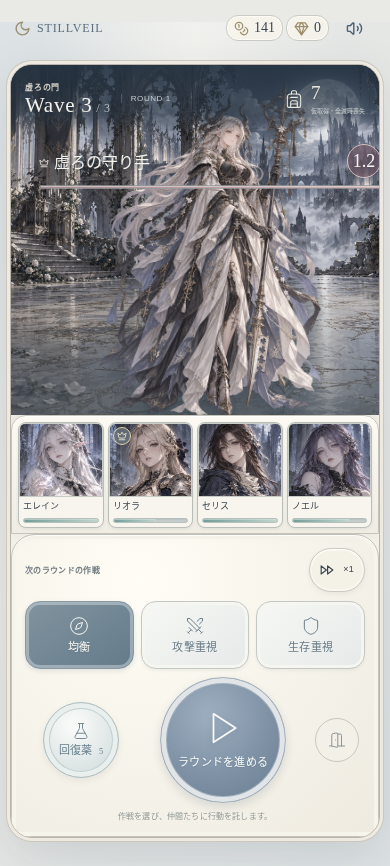
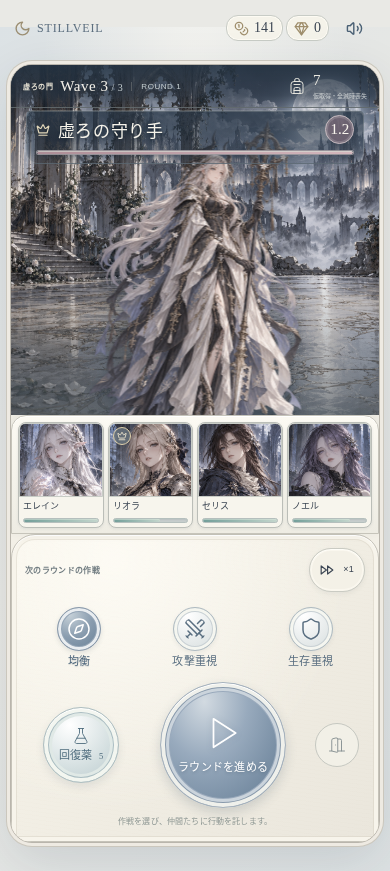
feat: refine reference artwork and satin fantasy interface

diff --git a/src/ui/battle.css b/src/ui/battle.css
@@ -15,19 +15,22 @@
   position: absolute;
   z-index: 5;
   inset: 0 0 auto;
-  min-height: 70px;
-  padding: 14px 20px;
+  min-height: 44px;
+  padding: 8px 17px;
   margin: 0;
   gap: 14px;
   color: #edece8;
-  background: linear-gradient(180deg,#263443e6,#2634438a 75%,transparent);
+  background: linear-gradient(180deg,#263443e0,#26344391 72%,#26344326);
+  border-bottom: 1px solid #d7d4c14d;
 }
-.battle-layout .battle-topline .eyebrow { color: #d0cec4; font-size: 9px; margin-bottom: 3px; letter-spacing: .1em; }
-.battle-layout .battle-topline h2 { font-size: 23px; line-height: 1; color: #f3f0e9; }
-.battle-layout .battle-topline h2 small { color: #b9c3c9; font-size: 12px; }
+.battle-layout .battle-topline .eyebrow { color: #e2ded0; font-size: 8px; margin-bottom: 0; letter-spacing: .08em; }
+.battle-layout .battle-topline > div:first-child { display: flex; align-items: center; gap: 11px; }
+.battle-layout .battle-topline h2 { font-size: 16px; line-height: 1.2; color: #f3f0e9; white-space: nowrap; }
+.battle-layout .battle-topline h2 small { color: #c5ced1; font-size: 10px; }
 .battle-layout .round-label { color: #c4cdd0; border-color: #d9d7cc3b; font-size: 9px; padding-left: 14px; letter-spacing: .07em; }
 .battle-layout .bag-counter { color: #e8e7df; gap: 2px 7px; }
-.battle-layout .bag-counter strong { font-size: 19px; }
+.battle-layout .bag-counter strong { font-size: 15px; }
+.battle-layout .bag-counter > svg { width: 18px; height: 18px; }
 .battle-layout .bag-counter small { color: #c7ccce; font-size: 7px; }
 .battle-layout .battle-scene { min-height: 0; height: 424px; border: 0; border-radius: 0; overflow: hidden; background: #465361; }
 .battle-layout .scene-background { opacity: 1; object-position: 50% 43%; filter: saturate(.7); }
@@ -80,20 +83,23 @@
 .battle-layout .party-strip .hp-bar > span { background: linear-gradient(90deg,#739e99,#c3d5cc); }
 .battle-layout .party-hp { display: none; }
 .battle-layout .party-strip--selecting .character-portrait.button:not(:disabled) { box-shadow: 0 0 0 2px #9bbab2,0 0 15px #c1d9d3; }
-.battle-layout .command-pad { position: relative; padding: 17px 19px 16px; margin: 0; border: 1px solid #c6c3b9; border-radius: 24px 24px 0 0; background: radial-gradient(ellipse at 35% 15%,#fffdf5,#eeeae0); box-shadow: inset 0 1px 0 #ffffff,inset 0 0 0 4px #f7f4eb; }
+.battle-layout .command-pad { position: relative; padding: 17px 19px 16px; margin: 0; border: 1px solid #c6c3b9; border-radius: 24px 24px 0 0; background: radial-gradient(ellipse at 28% 8%,#fffdf7cc,transparent 63%),repeating-linear-gradient(8deg,#aa9e7e03 0 1px,transparent 1px 4px),linear-gradient(135deg,#f8f5eb,#eae6dc); box-shadow: inset 0 1px 0 #ffffff,inset 0 0 0 4px #f7f4eb,inset 0 0 0 5px #d7d1c480; }
 .battle-layout .command-heading { margin-bottom: 13px; min-height: 28px; gap: 6px; }
 .battle-layout .command-heading > .eyebrow { font-size: 9px; letter-spacing: .04em; color: #727d82; }
 .battle-layout .command-heading .button { padding: 6px 10px; min-height: 44px; border-radius: 50px; background: #f4f1e7; font-size: 9px; border-color: #cacbc3; }
 .battle-layout .strategy-options { display: grid; grid-template-columns: repeat(3,minmax(0,1fr)); gap: 9px; margin-bottom: 10px; }
-.battle-layout .strategy-options .button { min-height: 77px; padding: 10px 5px 8px; border-radius: 18px; display: flex; flex-direction: column; gap: 4px; border: 1px solid #c3c8c7; background: linear-gradient(140deg,#f7f8f5,#e5e9e8); color: #697b87; box-shadow: inset 0 0 0 3px #f6f6f0,0 2px 3px #3b4a5210; }
-.battle-layout .strategy-options .button.is-selected { background: linear-gradient(145deg,#81939e,#647b8b); color: #faf9f3; border-color: #899aa5; box-shadow: inset 0 0 0 3px #d4dce177,0 2px 5px #3a4d5c20; }
+.battle-layout .strategy-options .button { min-height: 77px; padding: 5px 4px 4px; border-radius: 18px; display: flex; flex-direction: column; gap: 3px; border: 1px solid transparent; background: transparent; color: #596e80; box-shadow: none; }
+.battle-layout .strategy-options .button:hover:not(:disabled) { background: transparent; border-color: transparent; box-shadow: none; }
+.battle-layout .strategy-options .button.is-selected { background: transparent; color: #4c657b; border-color: transparent; box-shadow: none; }
+.battle-layout .strategy-options .button > svg { box-sizing: border-box; width: 48px; height: 48px; padding: 10px; stroke-width: 1.5; border: 1px solid #aebac0; border-radius: 50%; background: radial-gradient(circle at 32% 18%,#ffffff,#e2e7e7 70%,#c5d0d4); box-shadow: inset 0 0 0 3px #f5f6f0,inset 0 0 0 4px #c8d0d4,0 2px 4px #3a4d5c14; filter: none; }
+.battle-layout .strategy-options .button.is-selected > svg { color: #ffffff; background: radial-gradient(circle at 28% 16%,#c5d0d8,#8a9daf 48%,#647d94); border-color: #8999aa; box-shadow: inset 0 0 0 3px #e9edf0,inset 0 0 0 4px #93a4b5,0 2px 5px #3a4d5c24; filter: none; }
 .battle-layout .strategy-options .button > span { gap: 0; font-family: var(--font-display); font-size: 12px; line-height: 1.4; }
 .battle-layout .strategy-options .button small { display: none; }
 .battle-layout .command-actions { display: grid; grid-template-columns: 1fr 1.35fr .55fr; align-items: center; justify-items: center; gap: 8px; }
-.battle-layout .command-actions .battle-item-control { width: 86px; height: 86px; min-height: 86px; padding: 10px; border-radius: 50%; display: flex; flex-direction: column; gap: 4px; border: 1px solid #aebec0; background: radial-gradient(circle at 40% 30%,#fbfcfa,#cbd7d8); box-shadow: inset 0 0 0 5px #e9efec,inset 0 0 0 6px #c0ced0,0 3px 7px #41556217; color: #667f8b; }
+.battle-layout .command-actions .battle-item-control { width: 86px; height: 86px; min-height: 86px; padding: 10px; border-radius: 50%; display: flex; flex-direction: column; gap: 4px; border: 1px solid #aebec0; background: radial-gradient(circle at 35% 23%,#ffffff,#d4dfe0 58%,#b5c6ca); box-shadow: inset 0 1px 0 #ffffff,inset 0 0 0 4px #f3f6f0,inset 0 0 0 5px #aabdc2,inset 0 0 0 8px #e0e9e6,0 4px 8px #4155621c; color: #4f6d7e; }
 .battle-layout .battle-item-control > span { font-size: 11px; line-height: 1.2; }
 .battle-layout .battle-item-control small { margin-left: 3px; font-family: var(--font-display); }
-.battle-layout .command-actions .battle-advance-control { width: 142px; height: 142px; min-height: 142px; padding: 20px 13px; border-radius: 50%; display: flex; flex-direction: column; gap: 8px; border: 1px solid #a6b2bd; background: radial-gradient(circle at 39% 30%,#9daebf,#788b9f 65%,#667c91); color: #f9faf6; box-shadow: inset 0 0 0 5px #e1e5e7,inset 0 0 0 6px #a4b1bd,0 4px 10px #3a4e5f28; }
+.battle-layout .command-actions .battle-advance-control { width: 142px; height: 142px; min-height: 142px; padding: 20px 13px; border-radius: 50%; display: flex; flex-direction: column; gap: 8px; border: 1px solid #a6b2bd; background: radial-gradient(ellipse at 35% 15%,#d2dae1,#98aabd 38%,#778da3 72%,#657b92); color: #ffffff; box-shadow: inset 0 1px 0 #ffffff,inset 0 0 0 4px #eff0eb,inset 0 0 0 5px #899aac,inset 0 0 0 8px #cbd4dc,inset 0 0 0 9px #9aaabc,0 5px 12px #3a4e5f30; text-shadow: 0 1px 3px #3f566b70; }
 .battle-layout .battle-advance-control > svg { width: 38px; height: 38px; filter: drop-shadow(0 1px 3px #31475e2b); }
 .battle-layout .battle-advance-control > span { max-width: 104px; font-family: var(--font-display); font-size: 12px; line-height: 1.4; text-align: center; }
 .battle-layout .command-actions .battle-retreat-control { width: 44px; height: 44px; min-height: 44px; padding: 9px; border-radius: 50%; border: 1px solid #c6c8c1; background: #f2f0e7; color: #8a9394; }
@@ -101,9 +107,10 @@
 @media (max-width: 760px) {
   .battle-layout { max-width: 500px; border-radius: 22px; }
   .battle-layout .battle-scene { height: 350px; }
-  .battle-layout .battle-topline { min-height: 67px; padding: 12px 14px; gap: 10px; }
-  .battle-layout .battle-topline .eyebrow { font-size: 8px; }
-  .battle-layout .battle-topline h2 { font-size: 21px; }
+  .battle-layout .battle-topline { min-height: 43px; padding: 7px 12px; gap: 8px; }
+  .battle-layout .battle-topline .eyebrow { font-size: 7px; }
+  .battle-layout .battle-topline h2 { font-size: 15px; }
+  .battle-layout .battle-topline > div:first-child { gap: 7px; }
   .battle-layout .round-label { font-size: 8px; padding-left: 9px; }
   .battle-layout .bag-counter small { font-size: 6px; }
   .battle-layout .enemy-line { inset: 72px 9px 8px; gap: 5px 0; }
@@ -121,7 +128,8 @@
   .battle-layout .command-heading { margin-bottom: 9px; }
   .battle-layout .command-heading > .eyebrow { font-size: 8px; }
   .battle-layout .strategy-options { gap: 7px; margin-bottom: 8px; }
-  .battle-layout .strategy-options .button { min-height: 68px; padding: 8px 4px 6px; border-radius: 15px; }
+  .battle-layout .strategy-options .button { min-height: 72px; padding: 5px 2px 4px; border-radius: 15px; }
+  .battle-layout .strategy-options .button > svg { width: 44px; height: 44px; padding: 9px; }
   .battle-layout .strategy-options .button > span { font-size: 11px; }
   .battle-layout .command-actions { grid-template-columns: 1fr 1.45fr .5fr; gap: 4px; }
   .battle-layout .command-actions .battle-item-control { width: 76px; height: 76px; min-height: 76px; }

diff --git a/src/ui/MenuEmblem.tsx b/src/ui/MenuEmblem.tsx
@@ -1,4 +1,5 @@
 import { useId } from 'react';
+import { assetPath } from '../content';
 
 export type MenuEmblemKind = 'party' | 'monster' | 'bag' | 'wish' | 'codex' | 'settings';
 
@@ -6,6 +7,7 @@ export type MenuEmblemKind = 'party' | 'monster' | 'bag' | 'wish' | 'codex' | 's
 export function MenuEmblem({ kind }: { kind: MenuEmblemKind }) {
   const id = useId().replace(/:/g, '');
   const metal = `url(#${id}-metal)`, paper = `url(#${id}-paper)`;
+  if (kind === 'bag' || kind === 'codex') return <img className={`menu-emblem menu-emblem--painted menu-emblem--${kind}`} src={assetPath(`menu-${kind}`)} alt="" aria-hidden="true" draggable={false} />;
   return <svg className={`menu-emblem menu-emblem--${kind}`} viewBox="0 0 120 92" fill="none" aria-hidden="true">
     <defs>
       <linearGradient id={`${id}-metal`} x1="32" y1="14" x2="86" y2="84" gradientUnits="userSpaceOnUse"><stop stopColor="#8d94a4" /><stop offset=".56" stopColor="#697387" /><stop offset="1" stopColor="#a2a8b5" /></linearGradient>
@@ -14,33 +16,23 @@ export function MenuEmblem({ kind }: { kind: MenuEmblemKind }) {
     </defs>
     <ellipse cx="60" cy="53" rx="53" ry="36" fill={`url(#${id}-halo)`} />
     {kind === 'party' && <>
-      <path d="M29 79c-10-2-13-8-10-19 2-9 10-15 13-21-5-10-1-23 10-25 13-2 20 11 15 24-2 5-6 8-7 11 2 10 8 17 12 24-12-3-22 3-33 6Z" fill="#939aa8" opacity=".7" />
-      <path d="M76 77c14 2 20-2 19-12-1-12-11-13-14-23 4-8 3-19-5-22-9-4-18 3-17 13 0 7 5 10 8 13-1 9-7 15-12 23 6 5 14 8 21 8Z" fill="#a8aebb" />
-      <path d="M40 82c-9-3-10-9-7-16 3-8 14-13 18-19-9-11-5-27 5-29 15-3 24 12 18 25-3 6-8 10-8 16 4 5 13 12 18 20-18-4-30 0-44 3Z" fill={metal} />
-      <path d="M57 26c5-5 13-1 15 6l-4 3 4 5-6 3-1 8-10-3c5-6 6-12 2-22Z" fill={paper} />
-      <path d="M51 29c-4 13-1 23-7 35M48 43c3 12-1 20-7 27" stroke="#b6bbc4" strokeWidth="1.3" strokeLinecap="round" />
-      <path d="m47 57 12 8 10-7" stroke="#c6c7cb" strokeWidth="1.1" />
+      <path d="M27 80c9-4 12-11 12-20 0-8-5-12-5-24 0-17 12-28 28-28 18 0 29 12 28 28-1 7-4 11-8 16-3 5-4 10-2 16 1 5 5 9 10 13-16 0-28 2-39 4-9 2-18 1-24-5Z" fill={metal} />
+      <path d="M64 17c9-1 17 6 18 15l-2 6 7 7c1 1 0 3-2 3l-6 1-1 8c-1 5-5 7-11 7-3 7 0 12 8 16-11 0-22 2-31 4 2-7 9-10 12-17 2-5 1-10-1-15 7-7 11-19 9-35Z" fill={paper} />
+      <path d="M61 12c-14 7-16 17-12 33 4 17-3 23-11 32M56 16c-13 10-16 19-12 31 5 16-2 25-8 30M66 13c-9 8-9 18-4 27" stroke="#bdc1c7" strokeWidth="1.25" strokeLinecap="round" />
+      <path d="M75 35c2-1 4 0 5 1" stroke="#747e8c" strokeWidth="1" strokeLinecap="round" />
+      <path d="M88 79c9-6 13-15 14-26m-2 9 7-5m-10 14 8-3m-14 10 8-1" stroke="#a5aaa6" strokeWidth="1.15" strokeLinecap="round" />
+      <path d="M101 60c-5-2-7-5-7-8 5 1 8 3 7 8Zm-5 11c-5 0-8-3-9-6 6-1 9 2 9 6Z" fill="#a5aaa6" />
     </>}
     {kind === 'monster' && <>
-      <path d="M81 7c4 9 1 19-8 23 12 0 20-13 14-24-2-3-5-5-8-6l2 7Z" fill="#9ca2b3" />
-      <path d="m31 22 15 14 14-7 17 7 15-16 1 27 10 13-17 1 7 12-21-3-10 13-10-12-21 2 6-13-18-4 15-11-3-23Z" fill={metal} />
-      <path d="m38 34 9 10-7 2-2-12Zm46-2-9 12 8 1 1-13Z" fill={paper} />
-      <path d="m46 51 9 5-7 2-2-7Zm30 0-8 5 7 2 1-7Z" fill="#edece5" />
-      <path d="m55 61 7-4 7 4-7 7-7-7Z" fill="#e0e2e5" />
-      <path d="m59 70 3 3 4-3" stroke="#c4c9d0" strokeWidth="1.3" />
-      <path d="M26 82c-10-7-15-18-15-30M11 57l-5-5m6 13-6-2m11 12-6-1m80 7c10-7 15-17 16-29m-1 7 6-5m-8 14 7-2m-12 12 7-1" stroke="#a3aaa9" strokeWidth="1.4" strokeLinecap="round" />
-      <path d="m20 75-3-8 7 4m73 3 3-8-7 5" fill="#a3aaa9" />
-    </>}
-    {kind === 'bag' && <>
-      <path d="M45 26v-7c0-8 30-8 30 0v7" stroke="#6f7784" strokeWidth="5" />
-      <path d="M31 31c0-6 58-6 58 0l8 42c1 8-70 9-72 1l6-43Z" fill={metal} stroke="#687080" strokeWidth="1.3" />
-      <path d="m31 32-5 22c16 8 46 7 68-2l-5-21c-17 9-40 10-58 1Z" fill={paper} stroke="#9c9b99" strokeWidth="1.2" />
-      <path d="m42 30-1 45m36-46 2 46" stroke="#b7b1a1" strokeWidth="8" />
-      <path d="m42 30-1 45m36-46 2 46" stroke="#e2d8bc" strokeWidth="2" />
-      <rect x="36" y="47" width="11" height="12" rx="2" fill="#7b808a" stroke="#e2d8bc" strokeWidth="1.6" />
-      <rect x="73" y="46" width="11" height="12" rx="2" fill="#7b808a" stroke="#e2d8bc" strokeWidth="1.6" />
-      <path d="M51 61h19v16H51z" fill="#8e98a3" stroke="#c5c8c9" strokeWidth="1.1" />
-      <path d="M31 73c15 5 44 5 59-1" stroke="#ccd0d2" strokeWidth="1" />
+      <path d="M79 8c4 9 0 18-8 21 12 0 19-13 13-23-2-3-4-5-7-6l2 8Z" fill="#9ca3af" />
+      <path d="M34 78c6-7 7-14 6-23-5-2-9-5-11-9 6 0 10-2 13-6-1-8 0-18 4-29 6 6 11 13 13 20 7-3 14-3 20-2 4 7 10 13 17 16l10 3c3 1 4 5 1 7-4 3-11 4-18 5-2 6-5 11-10 14l6 10c-8-2-14-3-21-2l-8 5-7-7-15-2Z" fill={metal} />
+      <path d="M46 20c0 7 0 13 2 17l7-3-9-14Z" fill={paper} />
+      <path d="M60 45c7-6 15-8 21-5l-5 9-16-4Z" fill="#d9dde0" />
+      <path d="m70 44 7-1-2 4-5-3Z" fill="#697485" />
+      <path d="M91 48c3 0 7 1 10 2l-4 4-6-6Z" fill="#e6e5dc" />
+      <path d="M48 58c5 0 10-2 13-5-2 9-7 15-15 19m14-12c2 8 1 14-4 19m14-15c5 5 6 10 4 15" stroke="#bcc3ca" strokeWidth="1.1" strokeLinecap="round" />
+      <path d="M29 83C16 76 10 64 10 49m1 8-6-5m9 16-7-3m13 12-8-2m79 8c12-7 18-19 18-34m-1 9 6-5m-9 15 7-3m-13 12 8-2" stroke="#a1aaa5" strokeWidth="1.25" strokeLinecap="round" />
+      <path d="m17 73-2-8 7 5m75 4 2-8-7 5" fill="#a1aaa5" />
     </>}
     {kind === 'wish' && <>
       <path d="m60 9 23 30-6 28-17 18-17-18-6-28L60 9Z" fill="#a9b9ce" stroke="#75879e" strokeWidth="1.4" />
@@ -52,15 +44,6 @@ export function MenuEmblem({ kind }: { kind: MenuEmblemKind }) {
       <path d="m37 39 19 2 4-32m-4 32 12 0 15-2" stroke="#f5f5ef" strokeWidth="1.2" />
       <path d="m23 29 2 8 7 2-7 2-2 8-2-8-7-2 7-2 2-8Zm72 22 2 6 6 2-6 2-2 6-2-6-6-2 6-2 2-6Z" fill="#a7acb7" />
       <circle cx="33" cy="69" r="2" fill="#b0ac9d" /><circle cx="90" cy="26" r="1.5" fill="#b0ac9d" />
-    </>}
-    {kind === 'codex' && <>
-      <path d="m34 17 49 7-7 57-51-8 9-56Z" fill={metal} stroke="#6f7887" strokeWidth="1.2" />
-      <path d="m39 15 48 7-7 56-48-7 7-56Z" fill={paper} stroke="#9ba1a7" strokeWidth="1.2" />
-      <path d="m40 14 43 6-7 54-43-6 7-54Z" fill="#818c9d" stroke="#c4c4bf" strokeWidth="1.2" />
-      <path d="m46 21 30 4-5 40-30-4 5-40Z" stroke="#c4c3b8" strokeWidth=".8" />
-      <path d="M57 59c-1-10 2-21 11-27m-10 13c-10-5-9-12-9-12 8 0 12 6 9 12Zm2-3c9 0 13-7 13-7-8-2-13 1-13 7Zm-4 10c-9-1-11-8-11-8 8-2 12 2 11 8Z" stroke="#dcd9c8" fill="#dcd9c8" strokeWidth=".8" strokeLinecap="round" />
-      <path d="m32 72 47 7m-45-4 43 7" stroke="#d2cdbc" strokeWidth="1.2" />
-      <path d="m17 64 4 6-6 1m77-13-3 8 7-3" fill="#a6ada9" />
     </>}
     {kind === 'settings' && <>
       <path d="m49 14 4 9 10-1 3-9 12 4-1 10 8 6 9-3 7 11-7 7 2 10 9 4-3 13-11-1-6 8 1 8-14 3-5-8-10-1-6 7-11-6 2-10-6-7-10 1-4-12 8-6 1-10-8-6 6-11 10 3 8-5 1-10 13-3Z" fill={metal} transform="translate(-2 -2) scale(.88) translate(10 7)" />

diff --git a/src/content/index.ts b/src/content/index.ts
@@ -37,12 +37,12 @@ const characters: CharacterDef[] = [
 
 const characterAssets: AssetDef[] = characters.flatMap(char => {
   const wolf = char.id === 'pale-wolf';
-  const landscape = wolf || char.id === 'stone-drake';
-  const generated = char.origin.includes('initial') || landscape || char.id === 'hollow-keeper';
+  const landscape = wolf || char.id === 'stone-drake' || char.id === 'moon-moth';
+  const generated = char.origin.includes('initial') || char.origin.includes('recruit');
   const common = { path: `art/${char.id}.${generated ? 'png' : 'svg'}`, width: landscape ? 1536 : generated ? 1024 : 640, height: landscape ? 1024 : generated ? 1536 : 900, rights: generated ? 'Original AI-generated illustration for this project.' : 'Original SVG artwork created for this project. No third-party source.' };
   return [
     { ...common, id: char.artId, kind: 'illustration', anchor: landscape ? '50% 50%' : '50% 42%' },
-    { ...common, id: char.portraitId, kind: 'portrait', anchor: landscape ? '25% 30%' : generated ? '50% 8%' : '50% 28%', portraitZoom: landscape ? 1.4 : char.id === 'hollow-keeper' ? 1.7 : generated ? 1.9 : 1.25, portraitOrigin: landscape ? '25% 30%' : generated ? '50% 18%' : '50% 22%' },
+    { ...common, id: char.portraitId, kind: 'portrait', anchor: landscape ? '25% 30%' : generated ? '50% 8%' : '50% 28%', portraitZoom: char.id === 'moon-moth' ? 1.1 : landscape ? 1.4 : char.origin.includes('initial') ? 1.9 : generated ? 1.7 : 1.25, portraitOrigin: char.id === 'moon-moth' ? '50% 40%' : landscape ? '25% 30%' : generated ? '50% 18%' : '50% 22%' },
   ];
 });
 const stages = [
@@ -63,7 +63,9 @@ const dungeons: DungeonDef[] = stages.map(([id, name, subtitle, main, second], i
   [{ characterId: main === 'veil-priestess' ? second : main, boss: true }],
 ] }));
 
-export const content: Content = { appVersion: '0.1.0', contentVersion: 'initial-r1', rulesVersion: '1', schemaVersion: 1, characters, skills, species: [ { id: 'pilgrim', name: '巡礼' }, { id: 'mist', name: '白霧' }, { id: 'stone', name: '石燐' }, { id: 'hollow', name: '虚ろ' }, { id: 'moon', name: '月翅' }, { id: 'veil', name: '白帳' }, { id: 'thorn', name: '荊冠' } ], assets: [...characterAssets, { id: 'app-icon', path: 'art/icon.svg', kind: 'icon', width: 512, height: 512, anchor: '50% 50%', rights: 'Original SVG artwork created for this project.' }, { id: 'apple-touch-icon', path: 'apple-touch-icon.png', kind: 'icon', width: 180, height: 180, anchor: '50% 50%', rights: 'Rasterization of original project SVG artwork.' }, { id: 'key-art', path: 'art/key-art.png', kind: 'background', width: 1536, height: 1024, anchor: '70% 50%', rights: 'Original AI-generated artwork for this project.' }, { id: 'cathedral', path: 'art/cathedral.png', kind: 'background', width: 1536, height: 1024, anchor: '50% 45%', rights: 'Original AI-generated background created for this project.' }, ...(['common', 'rare', 'epic'] as const).map(rarity => ({ id: `material-${rarity}`, path: `art/material-${rarity}.svg`, kind: 'icon' as const, width: 128, height: 128, anchor: '50% 50%', rights: 'Original SVG artwork created for this project.' }))], dungeons };
+const menuAssets: AssetDef[] = [{ id: 'menu-bag', path: 'art/menu-bag.png', kind: 'icon', width: 1254, height: 1254, anchor: '50% 50%', rights: 'Original AI-generated artwork for this project.' }, { id: 'menu-codex', path: 'art/menu-codex.png', kind: 'icon', width: 1254, height: 1254, anchor: '50% 50%', rights: 'Original AI-generated artwork for this project.' }, { id: 'menu-hero', path: 'art/menu-hero.png', kind: 'background', width: 1254, height: 1254, anchor: '50% 50%', rights: 'Original AI-generated artwork for this project.' }];
+
+export const content: Content = { appVersion: '0.1.0', contentVersion: 'initial-r1', rulesVersion: '1', schemaVersion: 1, characters, skills, species: [ { id: 'pilgrim', name: '巡礼' }, { id: 'mist', name: '白霧' }, { id: 'stone', name: '石燐' }, { id: 'hollow', name: '虚ろ' }, { id: 'moon', name: '月翅' }, { id: 'veil', name: '白帳' }, { id: 'thorn', name: '荊冠' } ], assets: [...characterAssets, ...menuAssets, { id: 'app-icon', path: 'art/icon.svg', kind: 'icon', width: 512, height: 512, anchor: '50% 50%', rights: 'Original SVG artwork created for this project.' }, { id: 'apple-touch-icon', path: 'apple-touch-icon.png', kind: 'icon', width: 180, height: 180, anchor: '50% 50%', rights: 'Rasterization of original project SVG artwork.' }, { id: 'key-art', path: 'art/key-art.png', kind: 'background', width: 1536, height: 1024, anchor: '70% 50%', rights: 'Original AI-generated artwork for this project.' }, { id: 'cathedral', path: 'art/cathedral.png', kind: 'background', width: 1536, height: 1024, anchor: '50% 45%', rights: 'Original AI-generated background created for this project.' }, ...(['common', 'rare', 'epic'] as const).map(rarity => ({ id: `material-${rarity}`, path: `art/material-${rarity}.svg`, kind: 'icon' as const, width: 128, height: 128, anchor: '50% 50%', rights: 'Original SVG artwork created for this project.' }))], dungeons };
 
 export function characterById(id: string): CharacterDef { const found = content.characters.find(char => char.id === id); if (!found) throw new Error(`未知のキャラクター: ${id}`); return found; }
 export function assetPath(id: string): string { const asset = content.assets.find(item => item.id === id); if (!asset) throw new Error(`未知のアセット: ${id}`); const base = typeof import.meta.env === 'object' ? import.meta.env.BASE_URL : '/'; return `${base.replace(/\/$/, '')}/${asset.path.replace(/^\//, '')}`; }

diff --git a/src/ui/enemy-carousel.css b/src/ui/enemy-carousel.css
@@ -1,7 +1,7 @@
 /* One foreground illustration, with the other combatants waiting in depth. */
 .enemy-carousel {
   position: absolute;
-  inset: 72px 0 0;
+  inset: 44px 0 0;
   z-index: 1;
   overflow: hidden;
   touch-action: pan-y;
@@ -10,14 +10,14 @@
   outline: none;
 }
 .enemy-carousel:focus-visible { outline: 2px solid #d4d9cd; outline-offset: -5px; border-radius: 14px; }
-.enemy-carousel-status { position: absolute; top: 4px; left: 7%; width: 86%; z-index: 25; pointer-events: none; padding: 4px 7px 7px; }
+.enemy-carousel-status { position: absolute; top: 3px; left: 5%; width: 90%; z-index: 25; pointer-events: none; padding: 5px 10px 9px; border: 1px solid #d9ddd93b; border-radius: 6px 6px 12px 12px; background: linear-gradient(180deg,#293848c2,#29384872 75%,#29384824); box-shadow: inset 0 1px 0 #f4f2e62b; }
 .enemy-carousel-name { display: flex; align-items: center; gap: 8px; margin-bottom: 6px; color: #f5f2e9; text-shadow: 0 1px 5px #152332, 0 1px 10px #152332a0; }
-.enemy-carousel-name > strong { font-family: var(--font-display); font-size: 19px; font-weight: 400; letter-spacing: .035em; }
+.enemy-carousel-name > strong { font-family: var(--font-display); font-size: 18px; font-weight: 400; letter-spacing: .035em; }
 .enemy-carousel-name > svg { color: #e2d7b9; }
-.enemy-carousel-constant { display: grid; place-items: center; width: 35px; height: 35px; margin-left: auto; border: 1px solid #c8bdc2; border-radius: 50%; background: #756675d6; color: #f8f4ed; font-family: var(--font-display); font-size: 18px; text-shadow: none; box-shadow: inset 0 0 0 2px #e6e0db2e,0 2px 7px #27323d30; }
+.enemy-carousel-constant { display: grid; place-items: center; width: 32px; height: 32px; margin-left: auto; border: 1px solid #c8bdc2; border-radius: 50%; background: #756675d6; color: #f8f4ed; font-family: var(--font-display); font-size: 18px; text-shadow: none; box-shadow: inset 0 0 0 2px #e6e0db2e,0 2px 7px #27323d30; }
 .enemy-carousel-status .hp-bar { height: 5px; background: #263344b8; border: 1px solid #d4c7c89c; box-shadow: 0 1px 4px #23324436; }
 .enemy-carousel-status .hp-bar > span { background: linear-gradient(90deg,#ac8d96,#d4b7bd); }
-.enemy-orbit { position: absolute; inset: 0 0 12px; perspective: 800px; pointer-events: none; }
+.enemy-orbit { position: absolute; inset: 44px 0 12px; perspective: 800px; pointer-events: none; }
 .enemy-orbit-slot {
   position: absolute;
   left: 50%;
@@ -32,8 +32,10 @@
   pointer-events: none;
 }
 .enemy-orbit-actor { position: absolute; inset: 0; }
-.enemy-orbit-art { position: absolute; left: -10%; bottom: -3px; width: 120%; height: calc(100% + 30px); max-width: none; object-fit: contain; object-position: center bottom; filter: drop-shadow(0 8px 8px #15263866); -webkit-user-drag: none; }
-.enemy-carousel--multiple .enemy-orbit { bottom: 23px; }
+.enemy-orbit-art { position: absolute; left: -10%; bottom: -3px; width: 120%; height: calc(100% + 12px); max-width: none; object-fit: contain; object-position: center bottom; filter: drop-shadow(0 8px 8px #15263866); -webkit-user-drag: none; }
+/* Taller portrait artwork can extend below the frame like the reference; landscape creatures keep their full silhouette. */
+.enemy-carousel:not(.enemy-carousel--multiple) .enemy-orbit-art--portrait { height: calc(100% + 78px); bottom: -44px; }
+.enemy-carousel--multiple .enemy-orbit { top: 44px; bottom: 23px; }
 .enemy-carousel--multiple .enemy-orbit-art { bottom: 0; height: 100%; }
 .enemy-carousel-controls { position: absolute; z-index: 30; inset: auto 16px 6px; display: flex; align-items: center; justify-content: space-between; pointer-events: none; }
 .enemy-carousel-controls .enemy-carousel-arrow { pointer-events: auto; width: 44px; height: 44px; min-height: 44px; padding: 10px; border-radius: 50%; color: #ecf0eb; background: #33475991; border: 1px solid #d4d9d080; box-shadow: inset 0 0 0 2px #ecede625,0 2px 8px #22313e2b; backdrop-filter: blur(5px); }
@@ -43,10 +45,10 @@
 .enemy-carousel-position span { color: #e0e5df; font-size: 8px; }
 .enemy-carousel--reduced .enemy-orbit-slot { will-change: auto; }
 @media (max-width: 760px) {
-  .enemy-carousel { inset: 68px 0 0; }
-  .enemy-carousel-status { top: 3px; left: 5%; width: 90%; padding-inline: 5px; }
+  .enemy-carousel { inset: 43px 0 0; }
+  .enemy-carousel-status { top: 2px; left: 4%; width: 92%; padding: 4px 9px 8px; }
   .enemy-carousel-name > strong { font-size: 17px; }
-  .enemy-carousel-constant { width: 32px; height: 32px; font-size: 16px; }
+  .enemy-carousel-constant { width: 29px; height: 29px; font-size: 15px; }
   .enemy-orbit-slot { width: 72%; }
   .enemy-carousel-controls { inset-inline: 11px; bottom: 5px; }
   .enemy-carousel-position { padding-inline: 8px; gap: 5px; }

diff --git a/src/ui/home.css b/src/ui/home.css
@@ -6,9 +6,9 @@
   margin: 0 auto;
   padding: 0 11px 12px;
   overflow: hidden;
-  border: 1px solid #b7b8b6;
+  border: 1px solid #b7b2a8;
   border-radius: 28px;
-  background: linear-gradient(135deg, #f1eee6, #e5e3df 52%, #eeeae2);
+  background: radial-gradient(ellipse at 18% 6%, #fffdf5a8, transparent 58%), repeating-linear-gradient(8deg, #85827b04 0, #85827b04 1px, transparent 1px, transparent 4px), linear-gradient(135deg, #f3efe7, #e9e5de 52%, #f1ede5);
   box-shadow: 0 2px 0 #faf9f1 inset, 0 12px 35px #313a4720, 0 0 0 4px #f6f4ec80;
 }
 .home-hub::after {
@@ -16,7 +16,7 @@
   position: absolute;
   inset: 5px;
   z-index: 5;
-  border: 1px solid #faf8ec66;
+  border: 1px solid #fffdf0a6;
   border-radius: 23px;
   pointer-events: none;
 }
@@ -31,7 +31,7 @@
   width: 100%;
   height: 100%;
   object-fit: cover;
-  object-position: 78% 27%;
+  object-position: 50% 50%;
 }
 .hub-illustration::after {
   content: '';
@@ -128,8 +128,8 @@
   padding: 7px 6px 13px;
   border: 1px solid #fcfbf5;
   border-radius: 23px;
-  background: linear-gradient(135deg, #f5f2ebf5, #eae6dfe8);
-  box-shadow: 0 2px 0 #bbbab650, 0 0 0 1px #bebfbb80 inset, 0 2px 9px #323d4b0d;
+  background: radial-gradient(ellipse at 22% 12%, #fffdf8e6, transparent 70%), repeating-linear-gradient(3deg, #918a7f05 0, #918a7f05 1px, transparent 1px, transparent 4px), linear-gradient(145deg, #f4f0e9f7, #e9e5ddec);
+  box-shadow: 0 2px 0 #b8b3aa55, 0 0 0 1px #bbb8ae8f inset, inset 0 1px 4px #fffdf3b3, 0 3px 9px #323d4b0c;
   color: #4c5260;
   text-align: center;
   overflow: hidden;
@@ -137,6 +137,7 @@
 .home-hub-menu .hub-menu-tile::after { content: ''; position: absolute; inset: 5px; border: 1px solid #ffffff5c; border-radius: 18px; pointer-events: none; }
 .home-hub-menu .hub-menu-tile:hover:not(:disabled) { background: linear-gradient(135deg, #fcfaf4, #eeeae4); border-color: #fcfbf5; box-shadow: 0 3px 0 #b7b7b160, 0 0 0 1px #a6adba inset, 0 7px 17px #36415216; transform: translateY(-1px); }
 .menu-emblem { width: 107px; height: 83px; flex-shrink: 0; filter: drop-shadow(0 2px 1px #49556515); }
+.menu-emblem--painted { object-fit: contain; padding: 1px 7px 2px; transform: scale(1.08); filter: drop-shadow(0 3px 2px #3b46521d); -webkit-user-drag: none; }
 .hub-menu-tile > strong { position: relative; z-index: 1; font-family: var(--font-display); font-size: 16px; font-weight: 500; letter-spacing: .05em; white-space: nowrap; }
 .home-hub .hub-dungeon-entry {
   position: relative;
@@ -169,7 +170,7 @@
   .home-hub { width: 100%; max-width: 430px; border-radius: 22px; padding: 0 8px 10px; box-shadow: 0 2px 0 #faf9f1 inset, 0 7px 25px #313a4718; }
   .home-hub::after { inset: 4px; border-radius: 18px; }
   .hub-illustration { height: 360px; margin-inline: -8px; border-radius: 21px 21px 0 0; }
-  .hub-illustration > img { object-position: 76% 26%; }
+  .hub-illustration > img { object-position: 50% 50%; }
   .hub-profile { top: 9px; left: 8px; right: 8px; gap: 7px; }
   .hub-profile-person { gap: 8px; padding: 5px 11px 5px 5px; }
   .hub-profile-avatar { width: 37px; height: 37px; }

diff --git a/src/ui/EnemyCarousel.tsx b/src/ui/EnemyCarousel.tsx
@@ -1,7 +1,7 @@
 import { useCallback, useEffect, useRef, useState, type CSSProperties, type PointerEvent } from 'react';
 import { ChevronLeft, ChevronRight, Crown } from 'lucide-react';
 import { Button, HPBar } from './index';
-import { assetPath, characterById } from '../content';
+import { assetPath, characterById, content } from '../content';
 import type { BattleEvent, Unit } from '../domain/types';
 
 export interface EnemyCarouselProps {
@@ -175,8 +175,10 @@ export function EnemyCarousel({ units, event, reducedMotion = false }: EnemyCaro
           zIndex: Math.round(depth * 10) + 1,
         } as CSSProperties;
         const def = characterById(unit.characterId);
+        const art = content.assets.find(asset => asset.id === def.artId);
+        const portraitArt = art ? art.height > art.width : false;
         return <div key={unit.uid} data-enemy-id={unit.uid} className={`enemy-orbit-slot${isFront ? ' is-front' : ''}${unit.hp <= 0 ? ' is-defeated' : ''}`} style={style}>
-          <div className="enemy-orbit-actor" data-unit={unit.uid}><img className="enemy-orbit-art" src={assetPath(def.artId)} alt="" draggable={false} /></div>
+          <div className="enemy-orbit-actor" data-unit={unit.uid}><img className={`enemy-orbit-art${portraitArt ? ' enemy-orbit-art--portrait' : ''}`} src={assetPath(def.artId)} alt="" draggable={false} /></div>
         </div>;
       })}
     </div>

diff --git a/src/screens/GameViews.tsx b/src/screens/GameViews.tsx
@@ -27,7 +27,7 @@ export function HomeView(p: ViewProps) {
   return <section className="home-hub" aria-labelledby="home-title">
     <h1 id="home-title" className="sr-only">旅の支度</h1>
     <div className="hub-illustration">
-      <img src={assetPath('key-art')} alt="月下の廃聖堂に佇む銀髪の巡礼者と白い狼" />
+      <img src={assetPath('menu-hero')} alt="月下の廃聖堂に佇む銀髪の巡礼者と白い狼" />
       <div className="hub-profile">
         <div className="hub-profile-person">
           <span className="hub-profile-avatar"><img src={assetPath(leader.portraitId)} alt="" /></span>

diff --git a/docs/implementation.md b/docs/implementation.md
@@ -88,3 +88,5 @@ npm run release
 ホームとバトルは共通UI配下のhome.cssとbattle.cssで構成し、画面からの外観上書きを避けています。メニューは3列×2段、バトルはステージ・顔グラ帯・操作面を一つの枠へまとめました。顔グラ専用のface variantは台帳のportraitZoom/portraitOriginでクロップを指定し、全身立ち絵や詳細表示を変更しません。小さい画面では内容を圧縮しすぎず縦スクロールを許可し、操作がナビに隠れないようにしています。
 
 敵の遠近表示は共通EnemyCarouselへ集約しています。表示の回転はコンポーネント内の状態で、ゲームのコマンドやセーブを変更しません。外側の配置と内側のdata-unitアニメーションを分離し、撃破・素材ドロップ時にも必要な敵の位置を保持します。横スワイプと縦スクロールを区別し、左右ボタンとキーボードも使用できます。
+
+メニュー用のmenu-hero、menu-bag、menu-codexと、通常敵6種の描画アセットは台帳参照で管理します。キャラクターの立ち絵が縦長かどうかを台帳寸法から判定し、単体表示時の拡大を共通クラスへ限定しています。個別キャラIDによるCSS分岐は追加していません。
